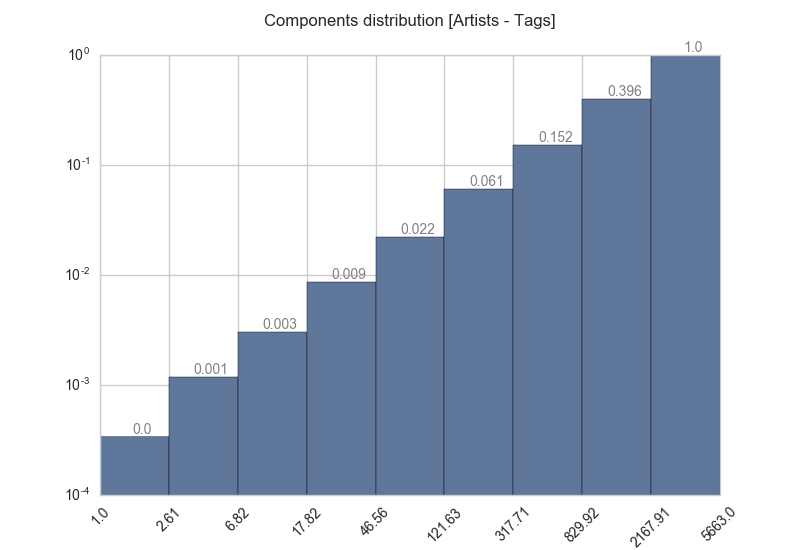
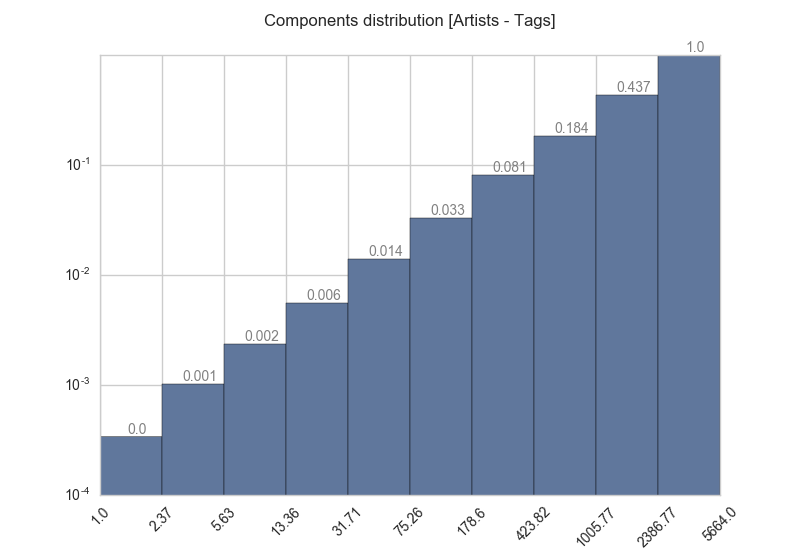
Backup

diff --git a/src/descriptors.py b/src/descriptors.py
@@ -10,7 +10,7 @@ import graph_tool.topology as top
 import graph_tool.clustering as clu
 import os
 import networkx as nx
-
+import pdb
 import seaborn as sns  # pip install seaborn
 
 sns.set_palette("deep", desat=.6)
@@ -42,9 +42,9 @@ def gt_network(nx_network, file_name):
 
 def draw_hist(x, y, title, file_name, loglog=False, nbins=10, cumulative=False):
     x1, x2 = min(x), max(x)
-
+    print "{}-{}".format(x1, x2)
     if loglog:
-        bins = np.logspace(np.log10(max(x1, 1)), np.log10(x2), nbins)
+        bins = np.logspace(np.log10(max(x1, 1)), np.log10(x2 + 1), nbins + 1)
     else:
         bins = np.linspace(x1, x2, nbins)
 
@@ -60,13 +60,14 @@ def draw_hist(x, y, title, file_name, loglog=False, nbins=10, cumulative=False):
     plt.xticks(bins, ["{}".format(i) for i in np.round((bins), 2)], fontsize=10, rotation=45)
 
     bb, cc, patches = plt.hist(x, weights=y, log=loglog, bins=bins, cumulative=cumulative, normed=True)
-    for i, _ in enumerate(bb):
-        w = (cc[i + 1] - cc[i])
+    if loglog:  # areaaaa
+        for i, _ in enumerate(bb):
+            w = (cc[i + 1] - cc[i])
 
-        area = bb[i] if cumulative else bb[i] * w
-        patch = patches[i]
-        h = patch.get_height()
-        plt.text(patch.get_x() + patch.get_width() / 2, h, "{}".format(round(area, 3)), ha='center', va='bottom', fontsize=10, color='gray')
+            area = bb[i] if cumulative else bb[i] * w
+            patch = patches[i]
+            h = patch.get_height()
+            plt.text(patch.get_x() + patch.get_width() / 2, h, "{}".format(round(area, 3)), ha='center', va='bottom', fontsize=10, color='gray')
 
     # plt.plot(x_, y_)
     plt.savefig('plots/desc/{}.png'.format(file_name))
@@ -116,28 +117,28 @@ def plot_hist(x, title, file_name, loglog=False, nbins=15, cumulative=False):
         plt.xscale('log')
 
     if loglog:
-        plt.xticks(bins, ["${}$".format(i) for i in np.round((bins), 2)], fontsize=10, rotation=45)
-    else:
-        plt.xticks(bins, ["{}".format(i) for i in np.round(bins, 1)], fontsize=10, rotation=45)
+        plt.xticks(bins, ["{}".format(i) for i in np.round((bins), 2)], fontsize=10, rotation=45)
 
     try:
         bb, cc, patches = plt.hist(x, bins=bins, normed=True, cumulative=cumulative, log=loglog)
         axes = plt.gca()
 
-        ymin, ymax = configureYAxis(bb)
+        ymin, ymax = configureYAxis(bb) if loglog else bb.min(), bb.max()
+        print "==>{}-{}".format(ymin, ymax)
         axes.set_ylim([ymin, ymax])
         xmin, xmax = configureXAxis(x1, x2)
         axes.set_xlim([xmin, xmax])
 
         # bb2, cc2 = np.histogram(x, bins=bins)
+        if loglog:  # area
+            pdb.set_trace()
+            for i, _ in enumerate(bb):
+                w = (cc[i + 1] - cc[i])
+                area = bb[i] if cumulative else bb[i] * w
 
-        for i, _ in enumerate(bb):
-            w = (cc[i + 1] - cc[i])
-            area = bb[i] if cumulative else bb[i] * w
-
-            patch = patches[i]
-            h = patch.get_height()
-            plt.text(patch.get_x() + patch.get_width() / 2, h, "{}".format(round(area, 3)), ha='center', va='bottom', fontsize=10, color='gray')
+                patch = patches[i]
+                h = patch.get_height()
+                plt.text(patch.get_x() + patch.get_width() / 2, h, "{}".format(round(area, 3)), ha='center', va='bottom', fontsize=10, color='gray')
 
     except Exception:
         print "Here"
@@ -331,24 +332,29 @@ if __name__ == '__main__':
 
     # for desc in [at_desc, ta_desc, au_desc, ua_desc, uu_desc]:
     for desc in [at_desc, au_desc, uu_desc]:
-        # print pprint(desc)
+        # for desc in [au_desc]:
+        print pprint(desc)
+        # draw_hist(desc['degree']["total"]['bins'][:-1], desc['degree']["total"]['counts'], title=PLOT_TITLES[desc['name']].format("", ""), file_name="{}_total".format(desc['name']), loglog=False)
+
+        # plot_hist(desc['degree']["prefix1"]['d'], title=desc['title_dd1'], file_name=desc["filename_dd1"], loglog=False)
+        # plot_hist(desc['degree']["prefix2"]['d'], title=desc['title_dd2'], file_name=desc["filename_dd2"], loglog=False)
         # plot_hist(desc['degree']["prefix1"]['d'], title=desc['title_dd1'], file_name=desc["filename_dd1l"], loglog=True)
         # plot_hist(desc['degree']["prefix1"]['d'], title=desc['title_dd1_acum'], file_name=desc["filename_dd1_acum"], cumulative=True, loglog=True)
         # plot_hist(desc['degree']["prefix2"]['d'], title=desc['title_dd2'], file_name=desc["filename_dd2l"], loglog=True)
         # plot_hist(desc['degree']["prefix2"]['d'], title=desc['title_dd2_acum'], file_name=desc["filename_dd2_acum"], cumulative=True, loglog=True)
 
-        # if desc != uu_desc:  # user-user network doesn't have weights
-        #     # plot_hist(desc['weights']['d'], title=desc['title_wd'], file_name=desc["filename_wd"])
-        #     plot_hist(desc['weights']['d'], title=desc['title_wd'], file_name=desc["filename_wdl"], loglog=True)
-        #     plot_hist(desc['weights']['d'], title=desc['title_wd_acum'], file_name=desc["filename_wd_acum"], loglog=True, cumulative=True)
+        if desc != uu_desc:  # user-user network doesn't have weights
+            # plot_hist(desc['weights']['d'], title=desc['title_wd'], file_name=desc["filename_wd"])
+            plot_hist(desc['weights']['d'], title=desc['title_wd'], file_name=desc["filename_wdl"], loglog=True)
+            plot_hist(desc['weights']['d'], title=desc['title_wd_acum'], file_name=desc["filename_wd_acum"], loglog=True, cumulative=True)
 
-        if 'components' in desc.keys():
-            draw_hist(desc['components']['bins'], desc['components']['counts'],
-                      title=desc['title_cd'],
-                      file_name=desc["filename_cdl"], loglog=True, cumulative=True)
+        # if 'components' in desc.keys():
+        #     draw_hist(desc['components']['bins'], desc['components']['counts'],
+        #               title=desc['title_cd'],
+        #               file_name=desc["filename_cdl"], loglog=True, cumulative=True)
 
-        if 'sp' in desc.keys():
-            draw_hist(desc['sp']['bins'][:-1], desc['sp']['counts'],
-                      title=desc['title_sp'],
-                      file_name=desc['filename_sp'],
-                      nbins=10, loglog=True, cumulative=True)
+        # if 'sp' in desc.keys():
+        #     draw_hist(desc['sp']['bins'][:-1], desc['sp']['counts'],
+        #               title=desc['title_sp'],
+        #               file_name=desc['filename_sp'],
+        #               nbins=10, loglog=True, cumulative=True)

diff --git a/src/rename_plts.py b/src/rename_plts.py
@@ -1,0 +1,14 @@
+import os
+recommendationLengths = [1, 5, 20]
+maxReferenceArtists = [3]
+kneighborhood = [1, 2, 5, None]
+maxSimilarUsers1 = [1, 5]  # (for k=1, 2, 5)
+maxSimilarUsers2 = [1, 5, 10, 50]  # (for k=None)
+for recommendationLength in recommendationLengths:
+    for refArtists in maxReferenceArtists:
+        for k in kneighborhood:
+            maxSimilarUsers = maxSimilarUsers1 if k else maxSimilarUsers2
+            for simUsers in maxSimilarUsers:
+                old_name = 'kN=' + str(kneighborhood) + ', SU=' + str(maxSimilarUsers) + ', RA=' + str(maxReferenceArtists) + ', RL=' + str(recommendationLength) + ".png"
+                new_name = 'kN=' + str(kneighborhood) + '_SU=' + str(maxSimilarUsers) + '_RA=' + str(maxReferenceArtists) + '_RL=' + str(recommendationLength) + ".png"
+                os.rename(old_name, new_name)
